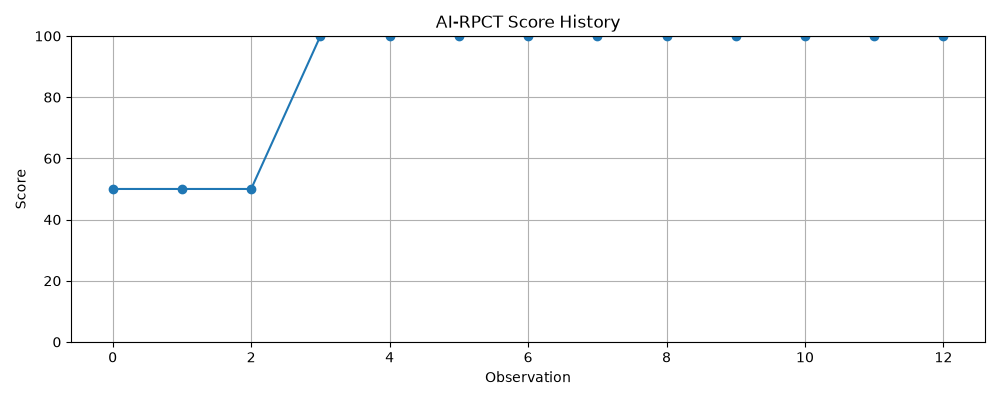
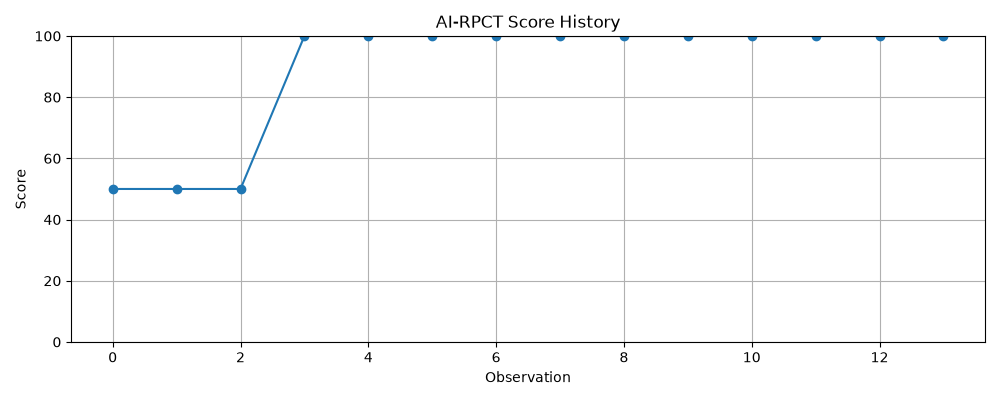
AI-RPCT v33.9 daily data moat pipeline

diff --git a/dashboard.html b/dashboard.html
@@ -29,7 +29,7 @@ th { color:#9ca3af; }
       <div class="drivers">Trend: STABLE</div>
       <div class="drivers">Drivers: NVDA above 200, BTC above 60k, AKT above 0.75, H100 price above $2/hr, A100 price above $1/hr, H100 availability constrained, A100 availability constrained</div>
       <br>
-      <div>Last update: 2026-06-16 19:51:29</div>
+      <div>Last update: 2026-06-16 20:16:03</div>
     </div>
     
     <div class="card">
@@ -69,7 +69,7 @@ th { color:#9ca3af; }
 <h2>Market Snapshot</h2>
 <table>
 <tr><th>Asset</th><th>Ticker</th><th>Price</th><th>Timestamp</th></tr>
-<tr><td>AKT</td><td>AKT-USD</td><td>$0.7930</td><td>2026-06-16 19:51:28</td></tr><tr><td>BTC</td><td>BTC-USD</td><td>$65867.7188</td><td>2026-06-16 19:51:28</td></tr><tr><td>ETH</td><td>ETH-USD</td><td>$1793.6899</td><td>2026-06-16 19:51:28</td></tr><tr><td>NVDA</td><td>NVDA</td><td>$209.5500</td><td>2026-06-16 19:51:27</td></tr>
+<tr><td>AKT</td><td>AKT-USD</td><td>$0.8120</td><td>2026-06-16 20:16:03</td></tr><tr><td>BTC</td><td>BTC-USD</td><td>$65987.1094</td><td>2026-06-16 20:16:02</td></tr><tr><td>ETH</td><td>ETH-USD</td><td>$1799.7300</td><td>2026-06-16 20:16:02</td></tr><tr><td>NVDA</td><td>NVDA</td><td>$209.3600</td><td>2026-06-16 20:16:02</td></tr>
 </table>
 
 <h2>GPU Market Snapshot</h2>
@@ -81,7 +81,7 @@ th { color:#9ca3af; }
 <h2>Last 10 RPCT Scores</h2>
 <table>
 <tr><th>Timestamp</th><th>Score</th><th>Regime</th><th>Drivers</th></tr>
-<tr><td>2026-06-16 15:58:20</td><td>100</td><td>Critical</td><td>NVDA above 200, BTC above 60k, ETH above 1800, AKT above 0.75, H100 price above $2/hr, A100 price above $1/hr, H100 availability constrained, A100 availability constrained</td></tr><tr><td>2026-06-16 16:04:24</td><td>100</td><td>Critical</td><td>NVDA above 200, BTC above 60k, ETH above 1800, AKT above 0.75, H100 price above $2/hr, A100 price above $1/hr, H100 availability constrained, A100 availability constrained</td></tr><tr><td>2026-06-16 16:10:41</td><td>100</td><td>Critical</td><td>NVDA above 200, BTC above 60k, AKT above 0.75, H100 price above $2/hr, A100 price above $1/hr, H100 availability constrained, A100 availability constrained</td></tr><tr><td>2026-06-16 16:36:04</td><td>100</td><td>Critical</td><td>NVDA above 200, BTC above 60k, AKT above 0.75, H100 price above $2/hr, A100 price above $1/hr, H100 availability constrained, A100 availability constrained</td></tr><tr><td>2026-06-16 16:41:04</td><td>100</td><td>Critical</td><td>NVDA above 200, BTC above 60k, AKT above 0.75, H100 price above $2/hr, A100 price above $1/hr, H100 availability constrained, A100 availability constrained</td></tr><tr><td>2026-06-16 16:48:36</td><td>100</td><td>Critical</td><td>NVDA above 200, BTC above 60k, AKT above 0.75, H100 price above $2/hr, A100 price above $1/hr, H100 availability constrained, A100 availability constrained</td></tr><tr><td>2026-06-16 16:55:55</td><td>100</td><td>Critical</td><td>NVDA above 200, BTC above 60k, AKT above 0.75, H100 price above $2/hr, A100 price above $1/hr, H100 availability constrained, A100 availability constrained</td></tr><tr><td>2026-06-16 17:02:08</td><td>100</td><td>Critical</td><td>NVDA above 200, BTC above 60k, AKT above 0.75, H100 price above $2/hr, A100 price above $1/hr, H100 availability constrained, A100 availability constrained</td></tr><tr><td>2026-06-16 19:39:22</td><td>100</td><td>Critical</td><td>NVDA above 200, BTC above 60k, AKT above 0.75, H100 price above $2/hr, A100 price above $1/hr, H100 availability constrained, A100 availability constrained</td></tr><tr><td>2026-06-16 19:51:29</td><td>100</td><td>Critical</td><td>NVDA above 200, BTC above 60k, AKT above 0.75, H100 price above $2/hr, A100 price above $1/hr, H100 availability constrained, A100 availability constrained</td></tr>
+<tr><td>2026-06-16 16:04:24</td><td>100</td><td>Critical</td><td>NVDA above 200, BTC above 60k, ETH above 1800, AKT above 0.75, H100 price above $2/hr, A100 price above $1/hr, H100 availability constrained, A100 availability constrained</td></tr><tr><td>2026-06-16 16:10:41</td><td>100</td><td>Critical</td><td>NVDA above 200, BTC above 60k, AKT above 0.75, H100 price above $2/hr, A100 price above $1/hr, H100 availability constrained, A100 availability constrained</td></tr><tr><td>2026-06-16 16:36:04</td><td>100</td><td>Critical</td><td>NVDA above 200, BTC above 60k, AKT above 0.75, H100 price above $2/hr, A100 price above $1/hr, H100 availability constrained, A100 availability constrained</td></tr><tr><td>2026-06-16 16:41:04</td><td>100</td><td>Critical</td><td>NVDA above 200, BTC above 60k, AKT above 0.75, H100 price above $2/hr, A100 price above $1/hr, H100 availability constrained, A100 availability constrained</td></tr><tr><td>2026-06-16 16:48:36</td><td>100</td><td>Critical</td><td>NVDA above 200, BTC above 60k, AKT above 0.75, H100 price above $2/hr, A100 price above $1/hr, H100 availability constrained, A100 availability constrained</td></tr><tr><td>2026-06-16 16:55:55</td><td>100</td><td>Critical</td><td>NVDA above 200, BTC above 60k, AKT above 0.75, H100 price above $2/hr, A100 price above $1/hr, H100 availability constrained, A100 availability constrained</td></tr><tr><td>2026-06-16 17:02:08</td><td>100</td><td>Critical</td><td>NVDA above 200, BTC above 60k, AKT above 0.75, H100 price above $2/hr, A100 price above $1/hr, H100 availability constrained, A100 availability constrained</td></tr><tr><td>2026-06-16 19:39:22</td><td>100</td><td>Critical</td><td>NVDA above 200, BTC above 60k, AKT above 0.75, H100 price above $2/hr, A100 price above $1/hr, H100 availability constrained, A100 availability constrained</td></tr><tr><td>2026-06-16 19:51:29</td><td>100</td><td>Critical</td><td>NVDA above 200, BTC above 60k, AKT above 0.75, H100 price above $2/hr, A100 price above $1/hr, H100 availability constrained, A100 availability constrained</td></tr><tr><td>2026-06-16 20:16:03</td><td>100</td><td>Critical</td><td>NVDA above 200, BTC above 60k, AKT above 0.75, H100 price above $2/hr, A100 price above $1/hr, H100 availability constrained, A100 availability constrained</td></tr>
 </table>
 </body>
 </html>

diff --git a/reports/research_snapshot_20260616.md b/reports/research_snapshot_20260616.md
@@ -1,6 +1,6 @@
 # AI-RPCT Research Snapshot
 
-Generated: 2026-06-16 19:51:34.772783
+Generated: 2026-06-16 20:16:09.122043
 
 ## Current Infrastructure Risk
 